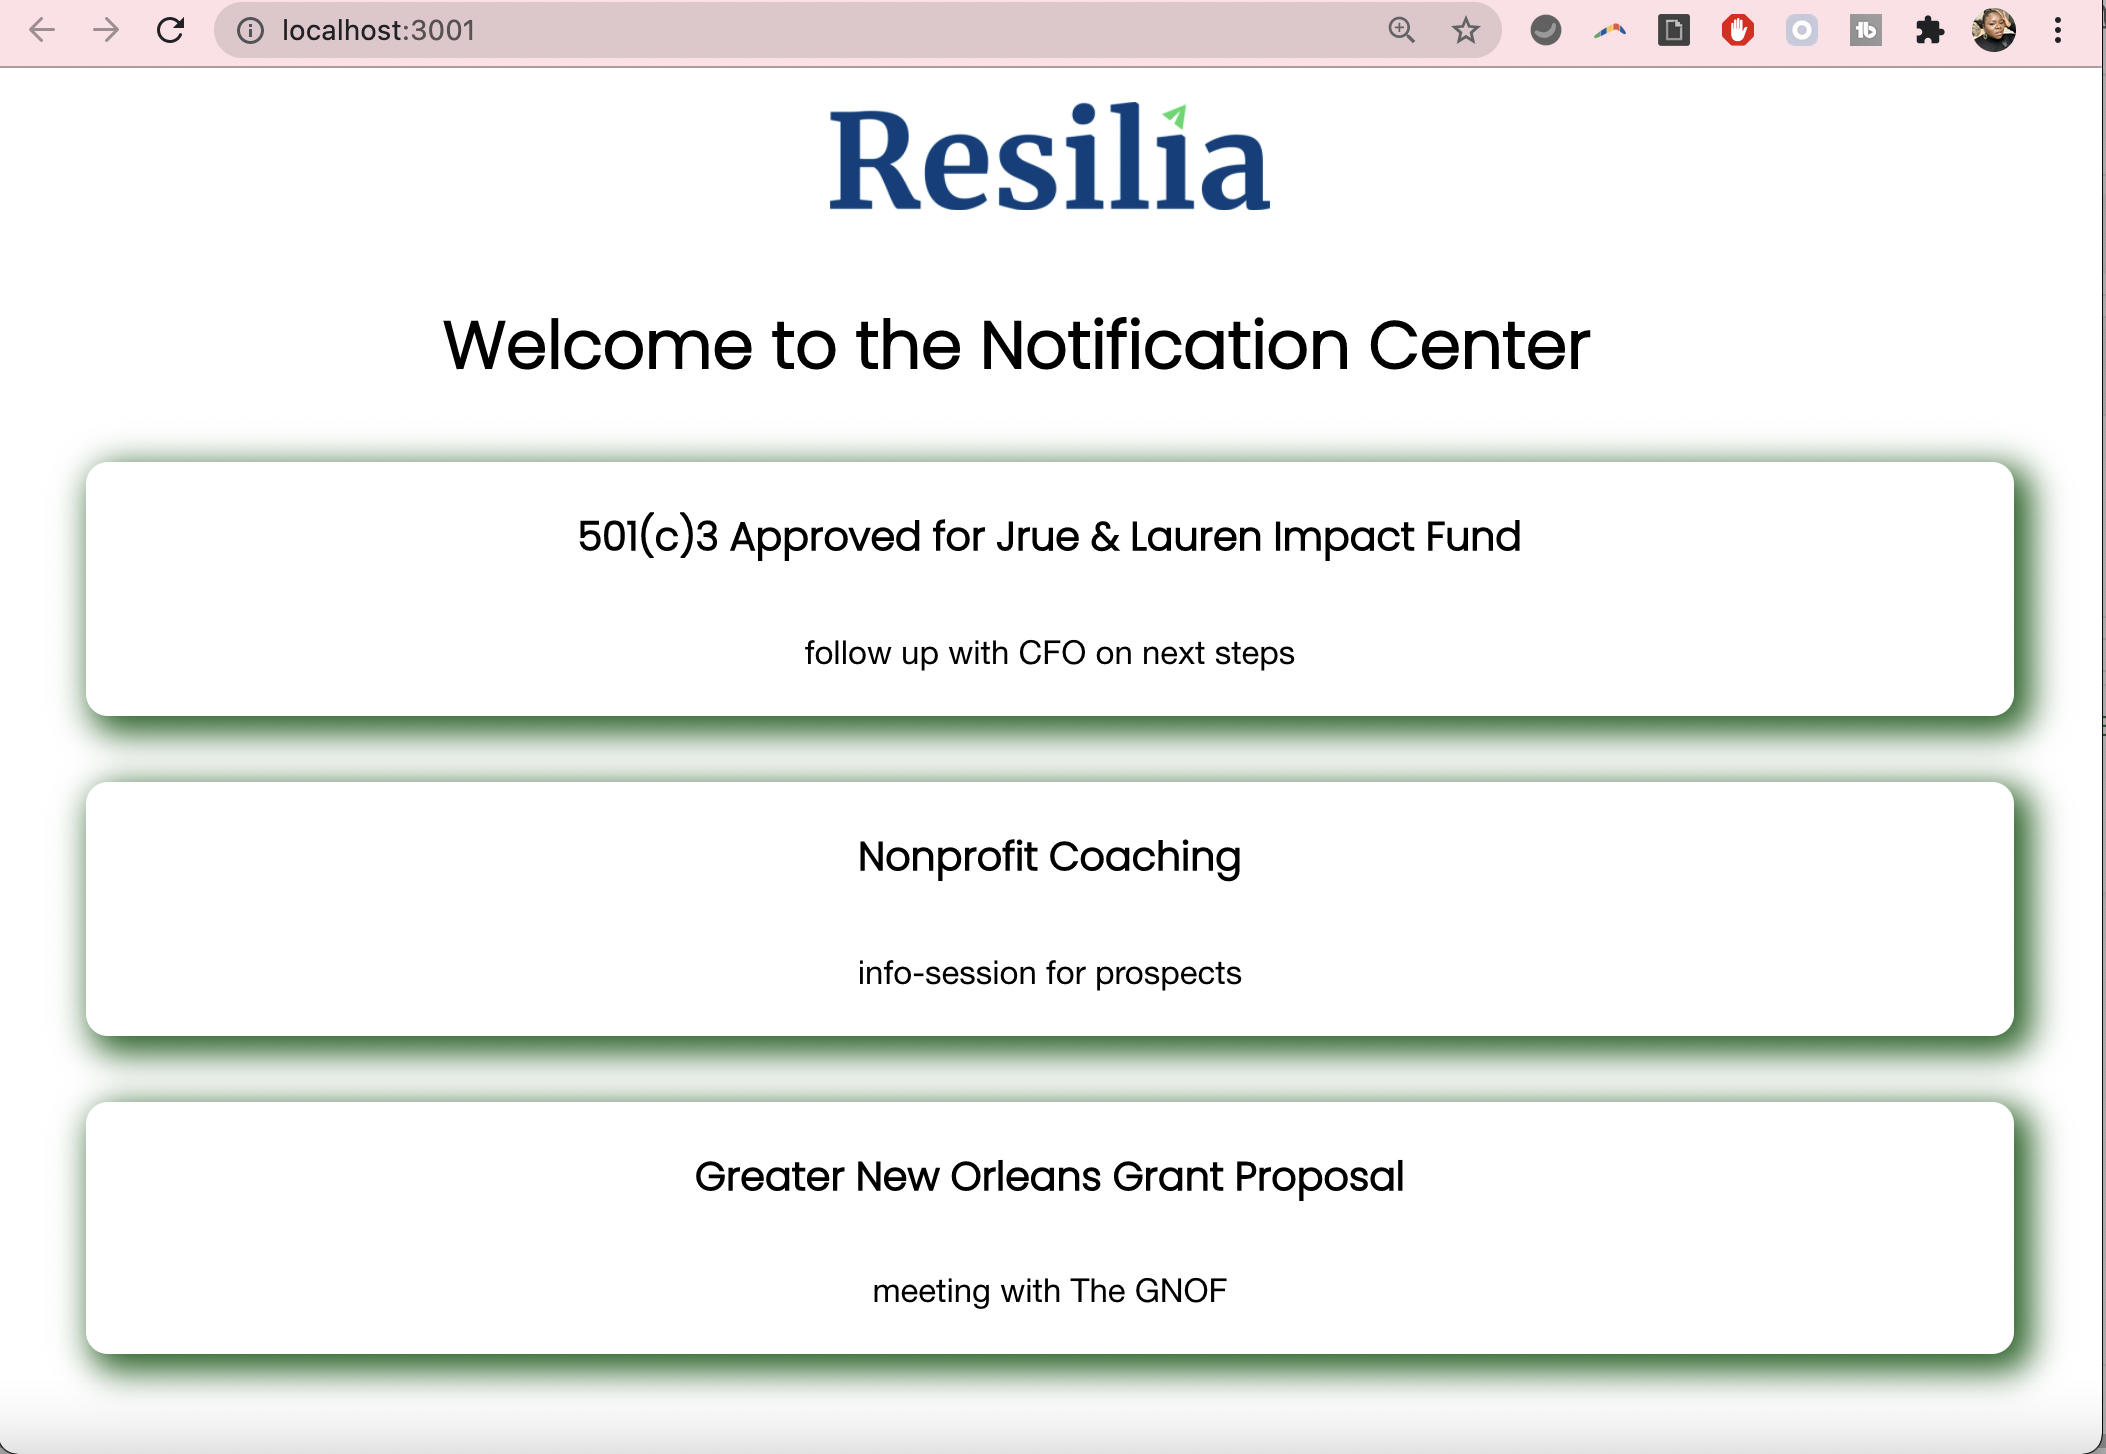
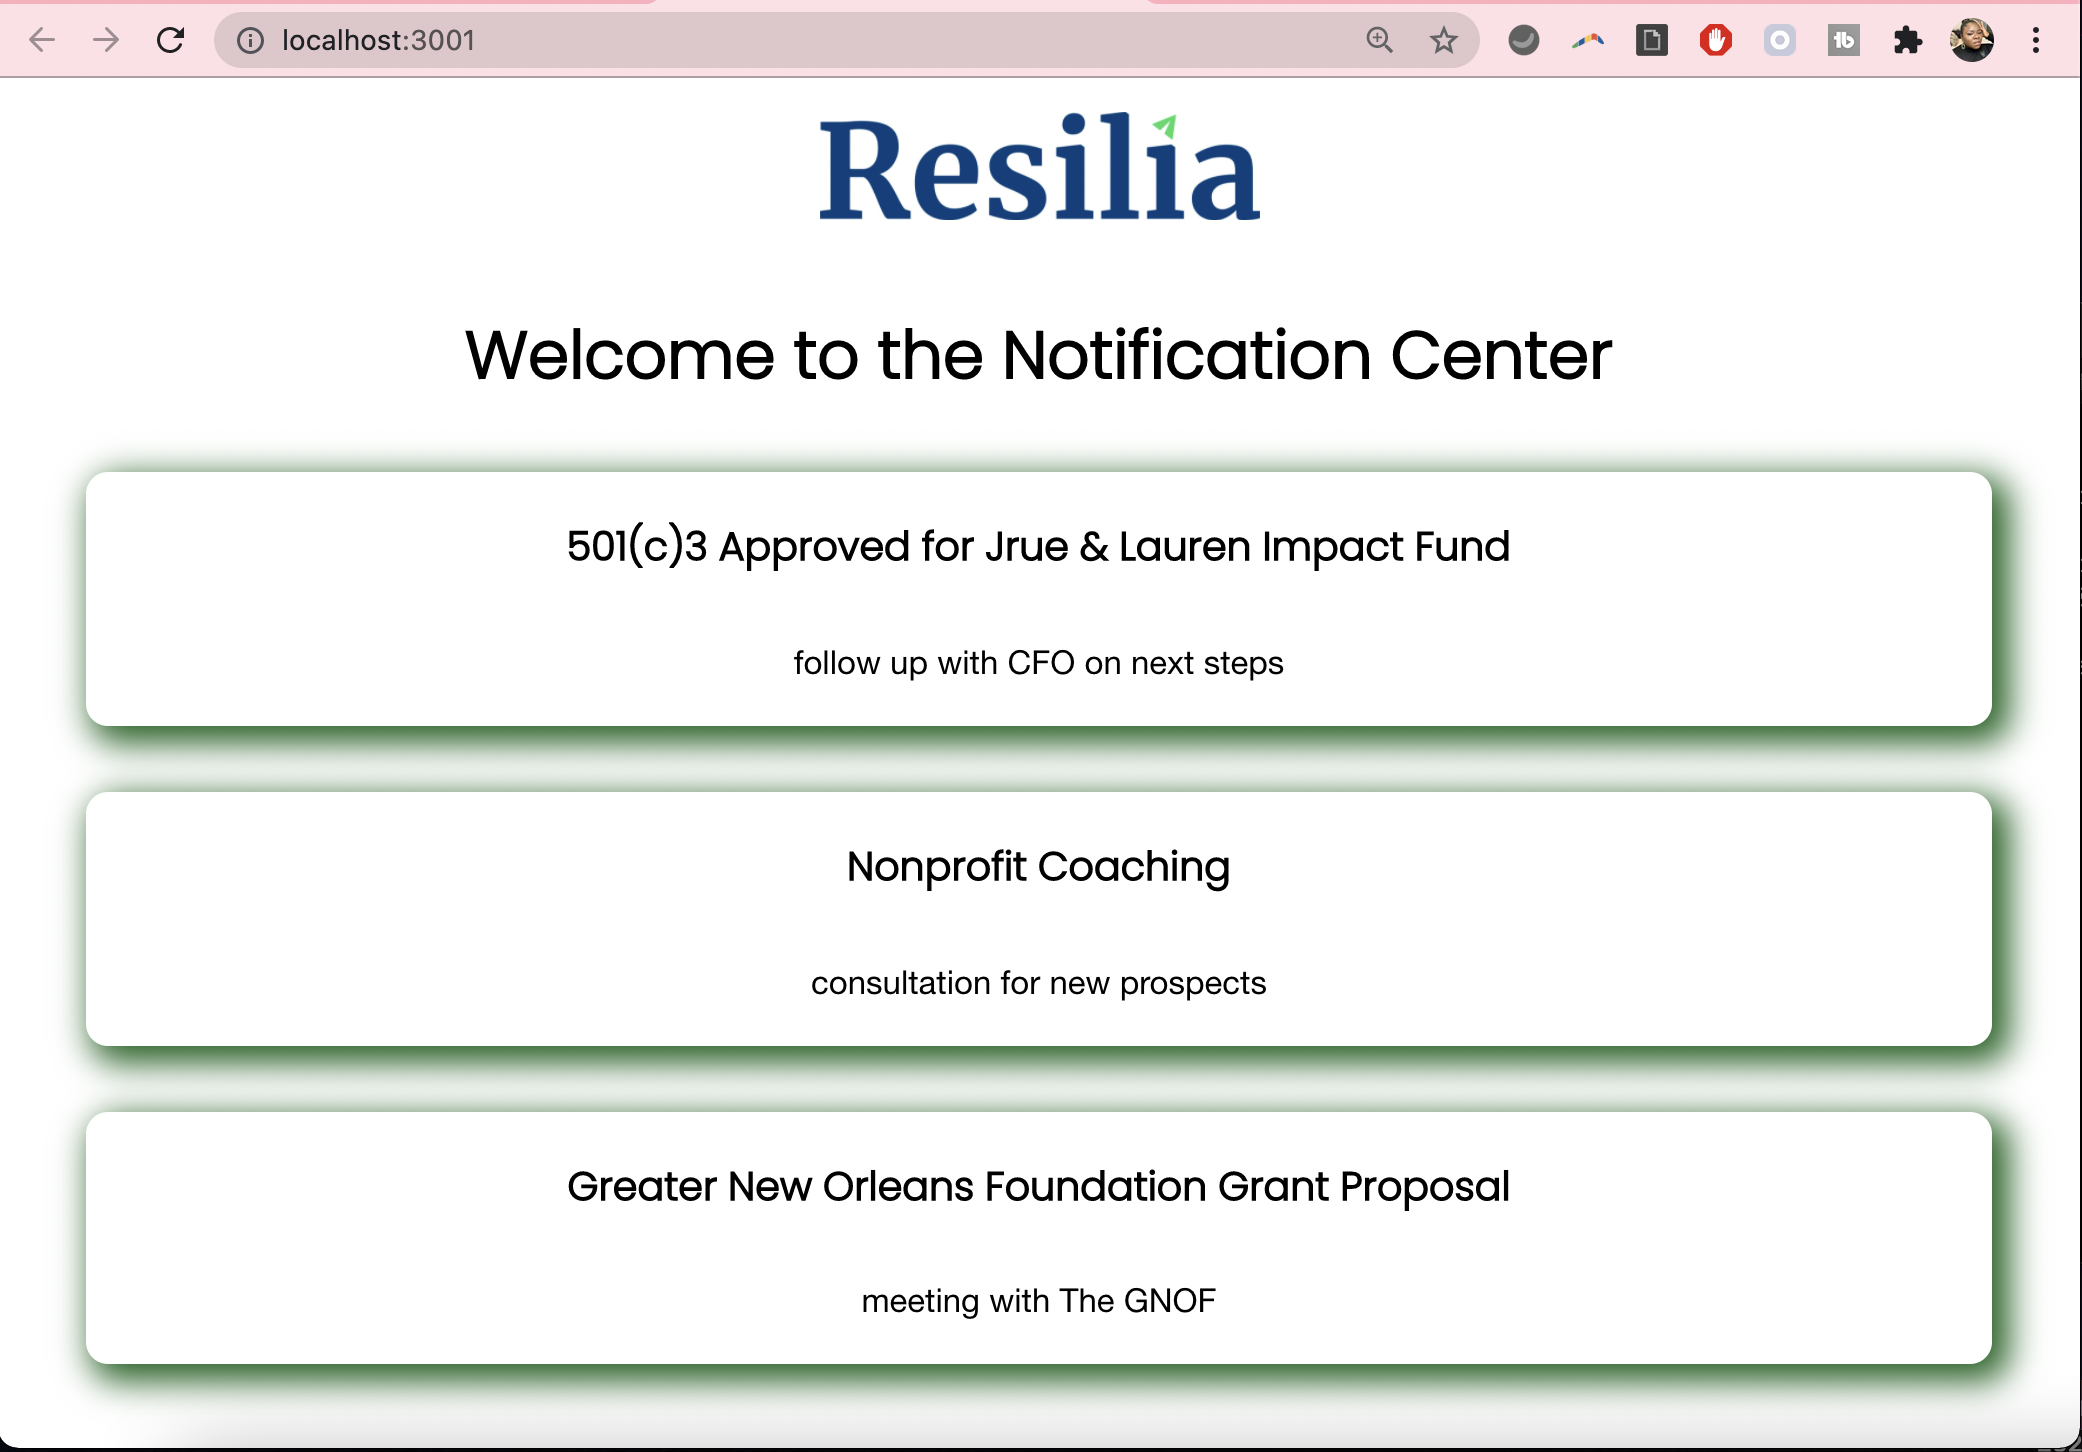
getItem for local storage

diff --git a/client/src/App.js b/client/src/App.js
@@ -20,7 +20,12 @@ function App() {
     };
     getNotifications();
   }, []);
-
+  
+//gets item
+  useEffect(() => {
+    localStorage.getItem("notifications", JSON.stringify(notifications))
+  },[notifications])
+//sets item
   useEffect(() => {
     localStorage.setItem("notifications", JSON.stringify(notifications));
   }, [notifications]);

diff --git a/backend/db/seeds.rb b/backend/db/seeds.rb
@@ -9,7 +9,7 @@
 Notification.destroy_all
 
 @notification1 = Notification.create!(title: "501(c)3 Approved for Jrue & Lauren Impact Fund ", content: "follow up with CFO on next steps")
-@notification2 = Notification.create!(title: "Nonprofit Coaching", content: "info-session for prospects")
-@notification3 = Notification.create!(title: "Greater New Orleans Grant Proposal", content: "meeting with The GNOF")
+@notification2 = Notification.create!(title: "Nonprofit Coaching", content: "consultation for new  prospects")
+@notification3 = Notification.create!(title: "Greater New Orleans Foundation Grant Proposal", content: "meeting with The GNOF")
 
 puts 'notications created'

diff --git a/README.md b/README.md
@@ -7,7 +7,7 @@ Resilia take home assessment
 This is a web application that displays notifications with a React frontend, Ruby-on-rails backend, and  a postgreSQL database
 
 ## Deployment:
-[Netlify][1] for the frontend and [Heroku][2] for the backend. 
+[Netlify][1] for the [Heroku][2] for the backend. 
 Tested with Postman
 
 [1]:https://www.netlify.com/
